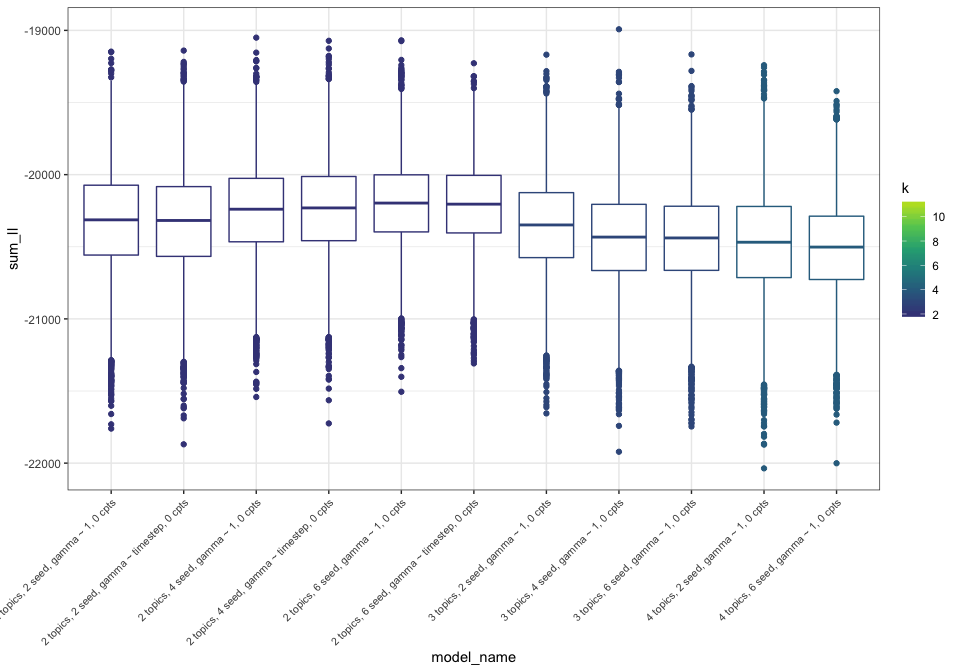
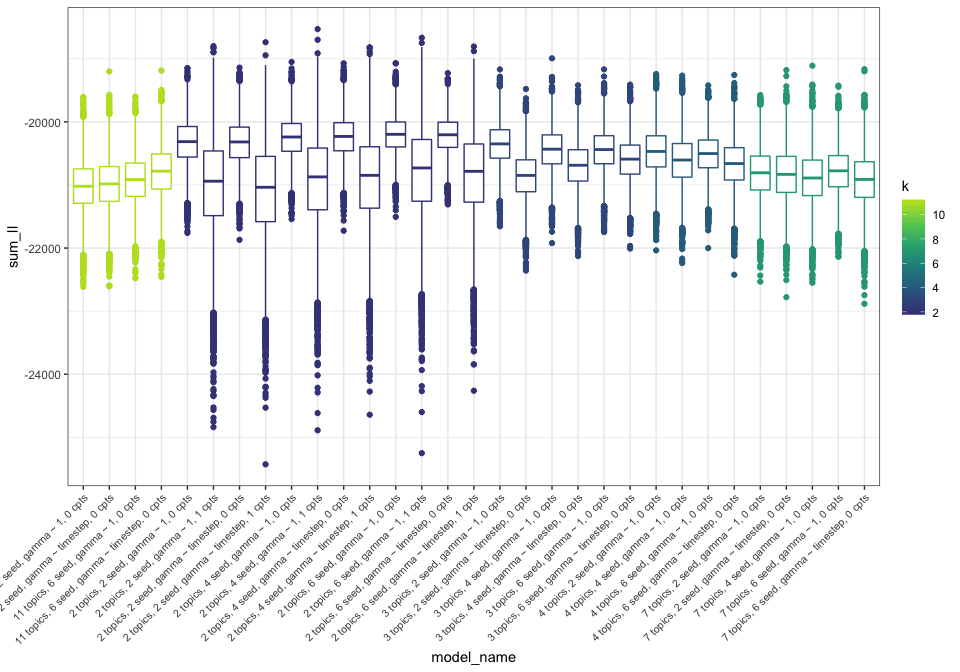
bbs report updates

diff --git a/analysis/bbsreport.md b/analysis/bbsreport.md
@@ -26,4 +26,4 @@ Models
 
 -   The changepoint models are consistently worse than the no changepoint models
 -   11 topics isn't *terrible*, but 2 topics wins based on the mean sum loglikelihood
--   If we look at the top 10 performing models based on mean sum loglikelihood, they appear comparable. That generally says 2, 3, or possibly 4 topics all do about the same, always with 0 changepoints, and occasionally - with 2 topics - with ~timestep as a covariate.
+-   But even the top 30 (of 60!) models seem to be fairly comparable, given the spread in sum loglikelihoods based on parameter uncertainty (?)
